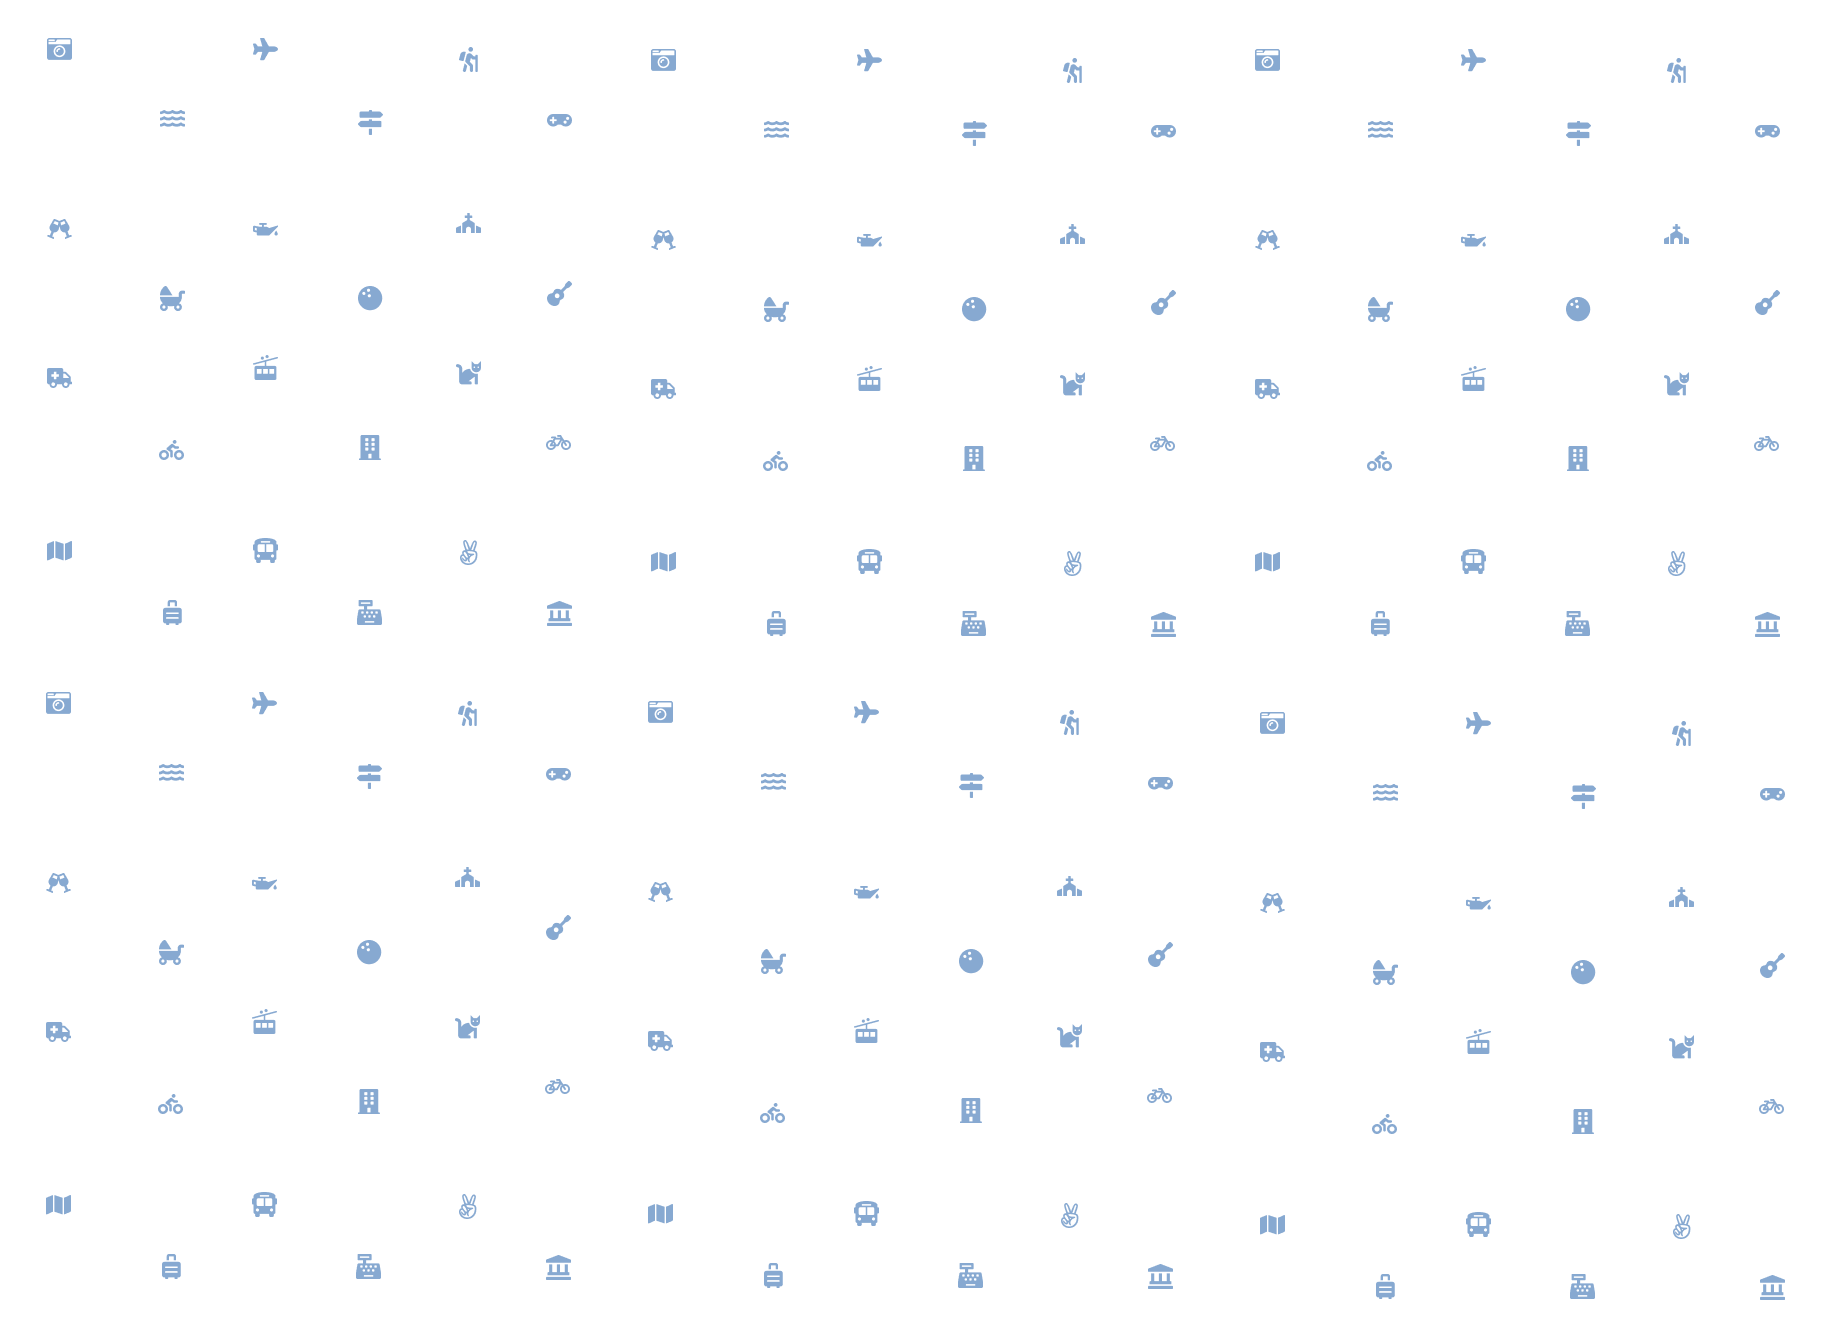
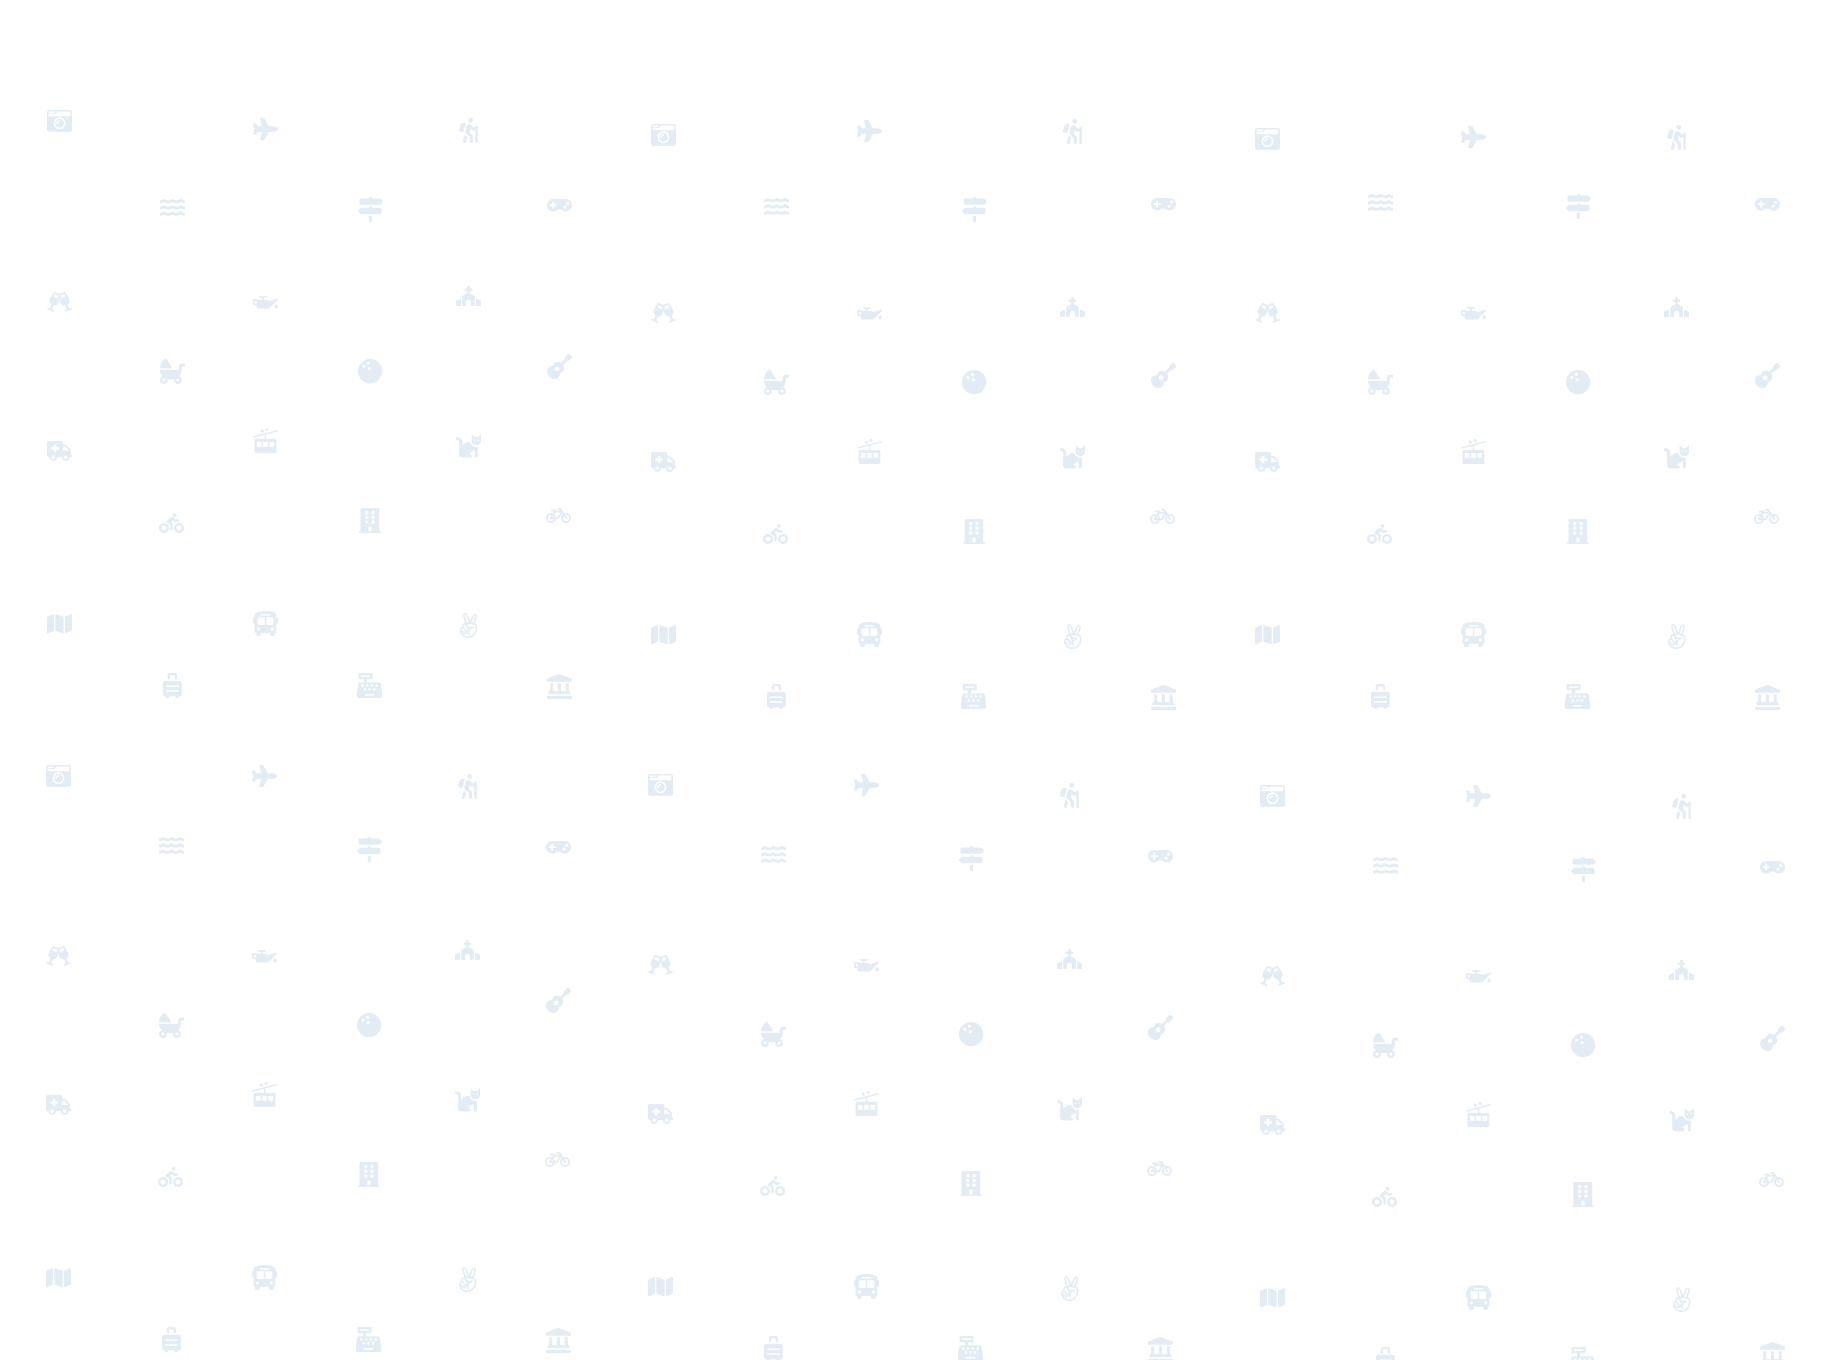
Interfaz mejorada y agregado de variable para client secret

diff --git a/src/Css/TourStep2.css b/src/Css/TourStep2.css
@@ -2,11 +2,11 @@
 	min-height: 422px;
 }
 
-.tituloSecundarioTourstep2{
-margin-bottom: 20px;
+.tituloSecundarioTourstep2 {
+	margin-bottom: 20px;
 }
 
-.descripcionTourStep2{
+.descripcionTourStep2 {
 	display: flex;
 	flex-direction: column;
 	align-items: center;
@@ -39,7 +39,7 @@ margin-bottom: 20px;
 	/* width: 500px; */
 }
 
-.alignLeft{
+.alignLeft {
 	width: 50%;
 	display: flex;
 	justify-content: flex-start;
@@ -49,38 +49,39 @@ margin-bottom: 20px;
 	.TourStep2 {
 		min-height: 490px;
 	}
+
 	.presentacionPreferencias {
 		padding: 30px 10px 20px;
 	}
 }
 
 @media screen and (min-width: 768px) {
-	.TourStep2{
+	.TourStep2 {
 		width: 900px;
 		min-height: 500px;
 	}
 
-	.descripcionTourStep2{
+	.descripcionTourStep2 {
 		width: 100%;
 	}
 
-	.presentacionPreferencias{
+	.presentacionPreferencias {
 		width: 70%;
 		padding: 30px 20px 20px;
 	}
 }
 
 @media screen and (min-width: 1024px) {
-	.TourStep2{
+	.TourStep2 {
 		width: 900px;
 		min-height: 500px;
 	}
 
-	.descripcionTourStep2{
+	.descripcionTourStep2 {
 		width: 100%;
 	}
 
-	.presentacionPreferencias{
+	.presentacionPreferencias {
 		width: 70%;
 	}
 }

diff --git a/src/Context/PageContext.jsx b/src/Context/PageContext.jsx
@@ -1,20 +1,15 @@
 import { createContext, useState, useEffect } from 'react';
-import backPredefinedTour from '../Assets/backPredefinedTour.png'
-import backBuildTour from '../Assets/Group_238.png'
+import backBuildTour from '../Assets/backBuildTour.png'
 const PageContext = createContext();
 
 const PageProvider = ({ children }) => {
   const [activePage, setActivePage] = useState('')
   const [backGround, setBackGround] = useState('')
   useEffect(() => {
-    if(activePage !== 'tourInit' || activePage !==' predefinedTour' ) {
-      setBackGround('transparent')
-    }
-    if(activePage === 'tourInit') {
+    if(activePage === 'tourInit' || activePage === 'predefinedTour') {
       setBackGround(backBuildTour)
-    }
-    if(activePage === 'predefinedTour') {
-      setBackGround(backPredefinedTour)
+    }else{
+      setBackGround('transparent')
     }
   }, [activePage])
   

diff --git a/src/Pages/UserProfile.jsx b/src/Pages/UserProfile.jsx
@@ -58,7 +58,7 @@ const UserProfile = ({
               <h3>{getUser()}</h3>
             </div>
             <div className="user-profile__data">
-              <h3>{getEmail()}</h3>
+              <h4>{getEmail()}</h4>
             </div>
             {userType === 'feel' ? (
               <div className="divBtnUpdates">
@@ -87,13 +87,13 @@ const UserProfile = ({
 
           <div className="user-profile__links">
             <div className="misPreferencias">
-              <h3>
+              <h2>
                 {filtrarTraduccion(
                   traduccionesBD,
                   'myPreferencesTitle',
                   lenguage
                 )}
-              </h3>
+              </h2>
               <h5>
                 {filtrarTraduccion(
                   traduccionesBD,

diff --git a/src/Pages/Login.jsx b/src/Pages/Login.jsx
@@ -18,6 +18,8 @@ import {
 import Separador from '../Components/Separador';
 import '../Css/Login.css';
 import '../Css/userBarClick.css';
+/*#  VARIABLE DE ENTORNO ruta src/data/config.js */
+import {CLIENT_SECRET} from '../Data/config.js'
 
 const Login = ({ setIsLoggedIn, setPage, isLoggedIn, userBar, setUserBar }) => {
    const { setActivePage } = useContext(PageContext);
@@ -110,7 +112,7 @@ const Login = ({ setIsLoggedIn, setPage, isLoggedIn, userBar, setUserBar }) => {
       .post('http://localhost:8000/oauth/token', {
         grant_type: 'social',
         client_id: '2',
-        client_secret: 'kUznfaWwtks8lQraJrc1nlKv1yHVUjRO0JyYSN3M',
+        client_secret: CLIENT_SECRET,
         provider: 'google',
         access_token: googleUser.tokenObj.access_token,
       })

diff --git a/src/Css/Column.css b/src/Css/Column.css
@@ -27,7 +27,6 @@
 	max-width: 20%;
 	display: flex;
 	justify-content: center;
-	background-color: transparent;
 	background-color: white;
 }
 
@@ -46,6 +45,7 @@
 	border-radius: 1500%;
 	box-shadow: 1px 3px 10px 0 rgba(0, 0, 0, .2);
 }
+
 #TimeLine .draggable  {
 	z-index: 1;
 	max-width: 60px;
@@ -110,12 +110,6 @@
 	left: 50%;
 	border-radius: 10px;
 }
-
-/* @media screen and (min-width: 480px) { */
-/* 	.dragNDropContainer {
-		max-width: 1200px;
-	} */
-/* } */
 
 /****************** CARD **********************/
 

diff --git a/src/Css/Layout.css b/src/Css/Layout.css
@@ -5,6 +5,7 @@
 	align-items: center;
 	color: rgb(81, 81, 81);
 	min-width: 320px;
+	background-size: 80rem;
 }	
 
 h1,h2, h3, h4, h5, h6  {
@@ -22,6 +23,14 @@ h1,h2, h3, h4, h5, h6  {
 	 /* tablets */
 	.layout {
 		min-height: 100vh;
+		background-size: 100rem;
 	}
+}
+
+@media screen and (min-width: 748px) {
+	/* tablets */
+ .layout {
+	background-size: 150rem;
+ }
 }
 

diff --git a/src/Css/TourInit.css b/src/Css/TourInit.css
@@ -15,8 +15,6 @@
 
 .textBlur {
 	background-color: #ffffffd6;
-	/* width: 100%;
-	text-align: center; */
 }
 
 .pageText {
@@ -72,6 +70,8 @@
 	min-height: 220px;
 	margin-bottom: 2rem;
 }
+
+li { list-style-image: url('../Assets/localizacion.png'); }
 
 details {
 	padding: 1rem;

diff --git a/src/Data/config.js b/src/Data/config.js
@@ -1,0 +1,6 @@
+
+const CLIENT_SECRET='M7Qr4xgfLA7cUMti1KnacwjCcIg8sFn8kZDIZ1eV'
+
+export {
+  CLIENT_SECRET
+};

diff --git a/src/Css/TourStep4.css b/src/Css/TourStep4.css
@@ -19,6 +19,7 @@
 
 .imagenCardTourFinal {
 	border-radius: 5px;
+	width: 119px;
 }
 
 .dataTourFinal h6 {
